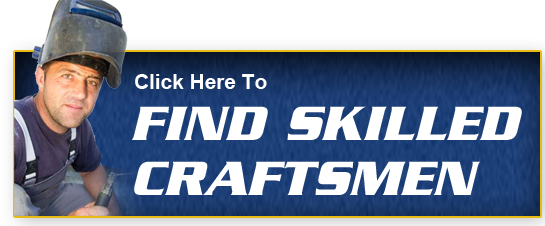
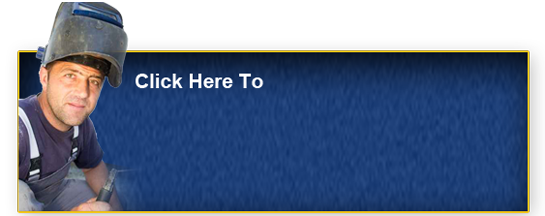
sidebar changes
added h2 elements to sidebar image links; updated links in footer

Changed region(s): [[0.0, 0.0, 1.0, 1.0], [0.2495, 0.6944, 0.9046, 0.8889], [0.2183, 0.4444, 0.4991, 0.6389]]

diff --git a/style.css b/style.css
@@ -74,10 +74,14 @@ html {
 	overflow-y: scroll; /* Keeps page centered in all browsers regardless of content height */
 	-webkit-text-size-adjust: 100%; /* Prevents iOS text size adjust after orientation change, without disabling user zoom */
 	-ms-text-size-adjust:     100%; /* www.456bereastreet.com/archive/201012/controlling_text_size_in_safari_for_ios_without_disabling_user_zoom/ */
+
+	width: 100%;
+	
 }
 
 html, body {
 	height: 100%;
+	
 }
 
 *,
@@ -90,6 +94,7 @@ html, body {
 
 body {
 	background: #fff; /* Fallback for when there is no custom background color defined. */
+	overflow-x: hidden;
 }
 
 article,
@@ -1373,7 +1378,7 @@ h3.panel-title {
 
 /** INTERNAL PAGES **/
 .content-area {
-	padding: 40px;
+	padding: 0 40px;
 	background: #ffffff;
 }
 
@@ -1381,14 +1386,34 @@ h3.panel-title {
 	border-left: 5px solid #d1d3d4;
 }
 
+.sidebar-links {
+	margin-top: -10px;
+}
+
 .sidebar-links a {
 	display: block;
 	padding-bottom: 1em;
+	width: 100%;
+	min-height: 130px;
+	height: auto;
+	position: relative;
+}
+
+.sidebar-links h2 {
+	color: #ffffff !important;
+	position: absolute;
+}
+
+.sidebar-links .contractors h2 {
+	/*background: url(images/sidebar-links-contractor.png) no-repeat 0 -20px;*/
+	left: 25%;
+	top: 34%;
+	z-index: 100;
 }
 
 .sidebar-wrap img {
 	display: block;
-	padding-bottom: 3em;
+	/*padding-bottom: 3em;*/
 }
 
 /** FOOTER **/

diff --git a/header.php b/header.php
@@ -10,7 +10,8 @@
 <html <?php language_attributes(); ?>>
 <head>
 <meta charset="<?php bloginfo( 'charset' ); ?>">
-<meta name="viewport" content="width=device-width, initial-scale=1">
+<!-- <meta name="viewport" content="width=device-width, initial-scale=1"> -->
+<meta name="viewport" content="width=device-width, initial-scale = 1, maximum-scale=1, user-scalable=no" />
 <title><?php wp_title( '|', true, 'right' ); ?></title>
 <link rel="profile" href="http://gmpg.org/xfn/11">
 <link rel="pingback" href="<?php bloginfo( 'pingback_url' ); ?>">
@@ -107,17 +108,17 @@
 
 				<ul>
 
-					<li><a href="#careerbuilder" class="careerbuilder">Careerbuilder</a></li>
+					<li><a href="http://www.careerbuilder.com/employerprofile/companydetails.aspx?CompanyDID=CHS5GD629L3DTFLKSJT" class="careerbuilder">Careerbuilder</a></li>
 
-					<li><a href="#facebook" class="facebook">Facebook</a></li>
+					<li><a href="https://www.facebook.com/ConstructionStrategiesInc" class="facebook">Facebook</a></li>
 
-					<li><a href="#twitter" class="twitter">Twitter</a></li>
+					<li><a href="https://twitter.com/CSI_Electrician" class="twitter">Twitter</a></li>
 
-					<li><a href="#google+" class="google">Google+</a></li>
+					<li><a href="https://plus.google.com/u/0/112354101551677739215/posts" class="google">Google+</a></li>
 
-					<li><a href="#email" class="email">Email</a></li>
+					<li><a href="http://constructionstrategiesinc.com/contact-us/" class="email">Email</a></li>
 
-					<li><a href="#maps" class="maps">Maps</a></li>
+					<li><a href="http://constructionstrategiesinc.com/contact-us/" class="maps">Maps</a></li>
 
 				</ul>
 

diff --git a/footer.php b/footer.php
@@ -24,13 +24,13 @@
 				<div class="bottom-row">
 
 					<div class="col-md-2 col-md-offset-1 first">
-						<a href="<?php echo get_home_url() ?>/about/the-company/">Find Contractor Support</a>
+						<a href="<?php echo get_home_url() ?>/contractors/">Find Contractor Support</a>
 					</div>
 					<div class="col-md-1 col-md-offset-2 second">
-						<a href="<?php echo get_home_url() ?>/about/the-company/">Find Skilled Craftsmen</a>
+						<a href="<?php echo get_home_url() ?>/need-skilled-tradespeople-now//">Find Skilled Craftsmen</a>
 					</div>
 					<div class="col-md-1 col-md-offset-2 third">
-						<a href="<?php echo get_home_url() ?>/about/the-company/">Find a Dream Job</a>
+						<a href="<?php echo get_home_url() ?>/skilled-trades-people/skilled-trades-job-openings//">Find a Dream Job</a>
 					</div>
 					<div class="col-md-3 last">
 						<span>Contact Us</span>
@@ -56,7 +56,7 @@
 					</div>
 
 					<div class="col-md-3 col-xs-12 fivepints">
-						<a href="http://5pints.com">Site by 5 Pints Productions</a>
+						<a href="http://fivepints.com">Site by 5 Pints Productions</a>
 					</div>
 				</footer><!-- footer -->
 

diff --git a/content-page.php b/content-page.php
@@ -41,7 +41,9 @@
 
 		<div class="sidebar-links">
 
-			<a href="<?php echo get_home_url() ?>/about/the-company/">
+			<a href="<?php echo get_home_url() ?>/about/the-company/" class="contractors">
+
+				<h2>Contractor Support</h2>
 
 				<img src="<?php bloginfo('template_directory') ?>/images/sidebar-links-contractor.png">
 
